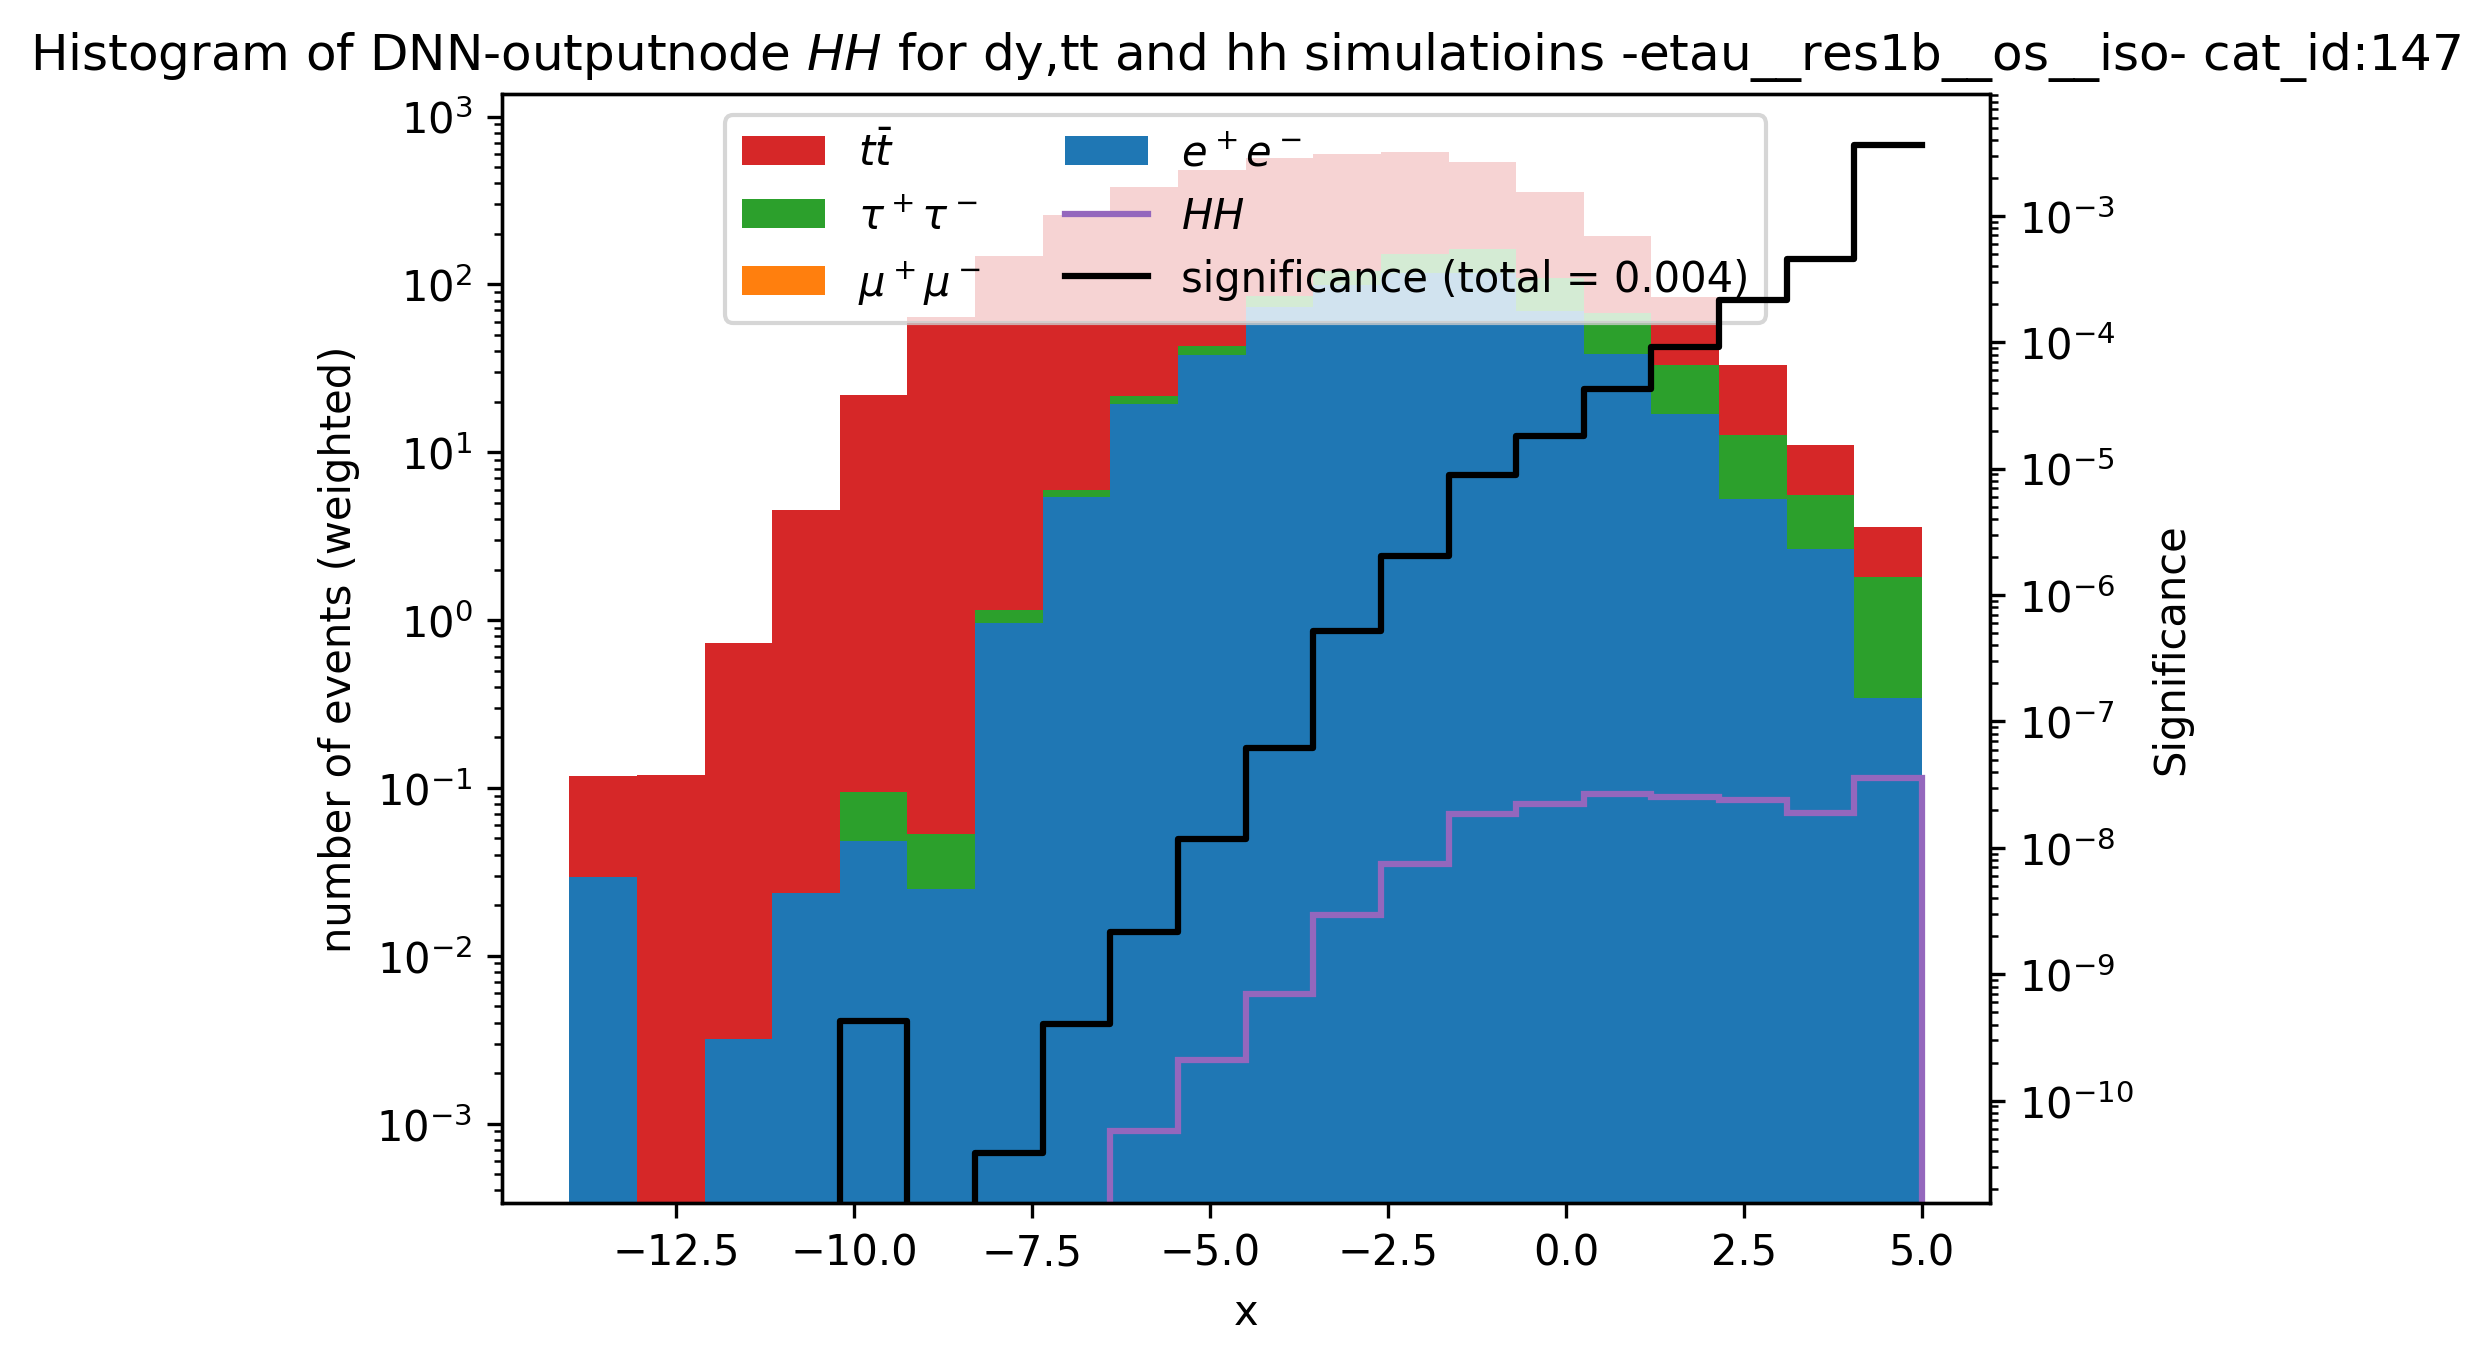
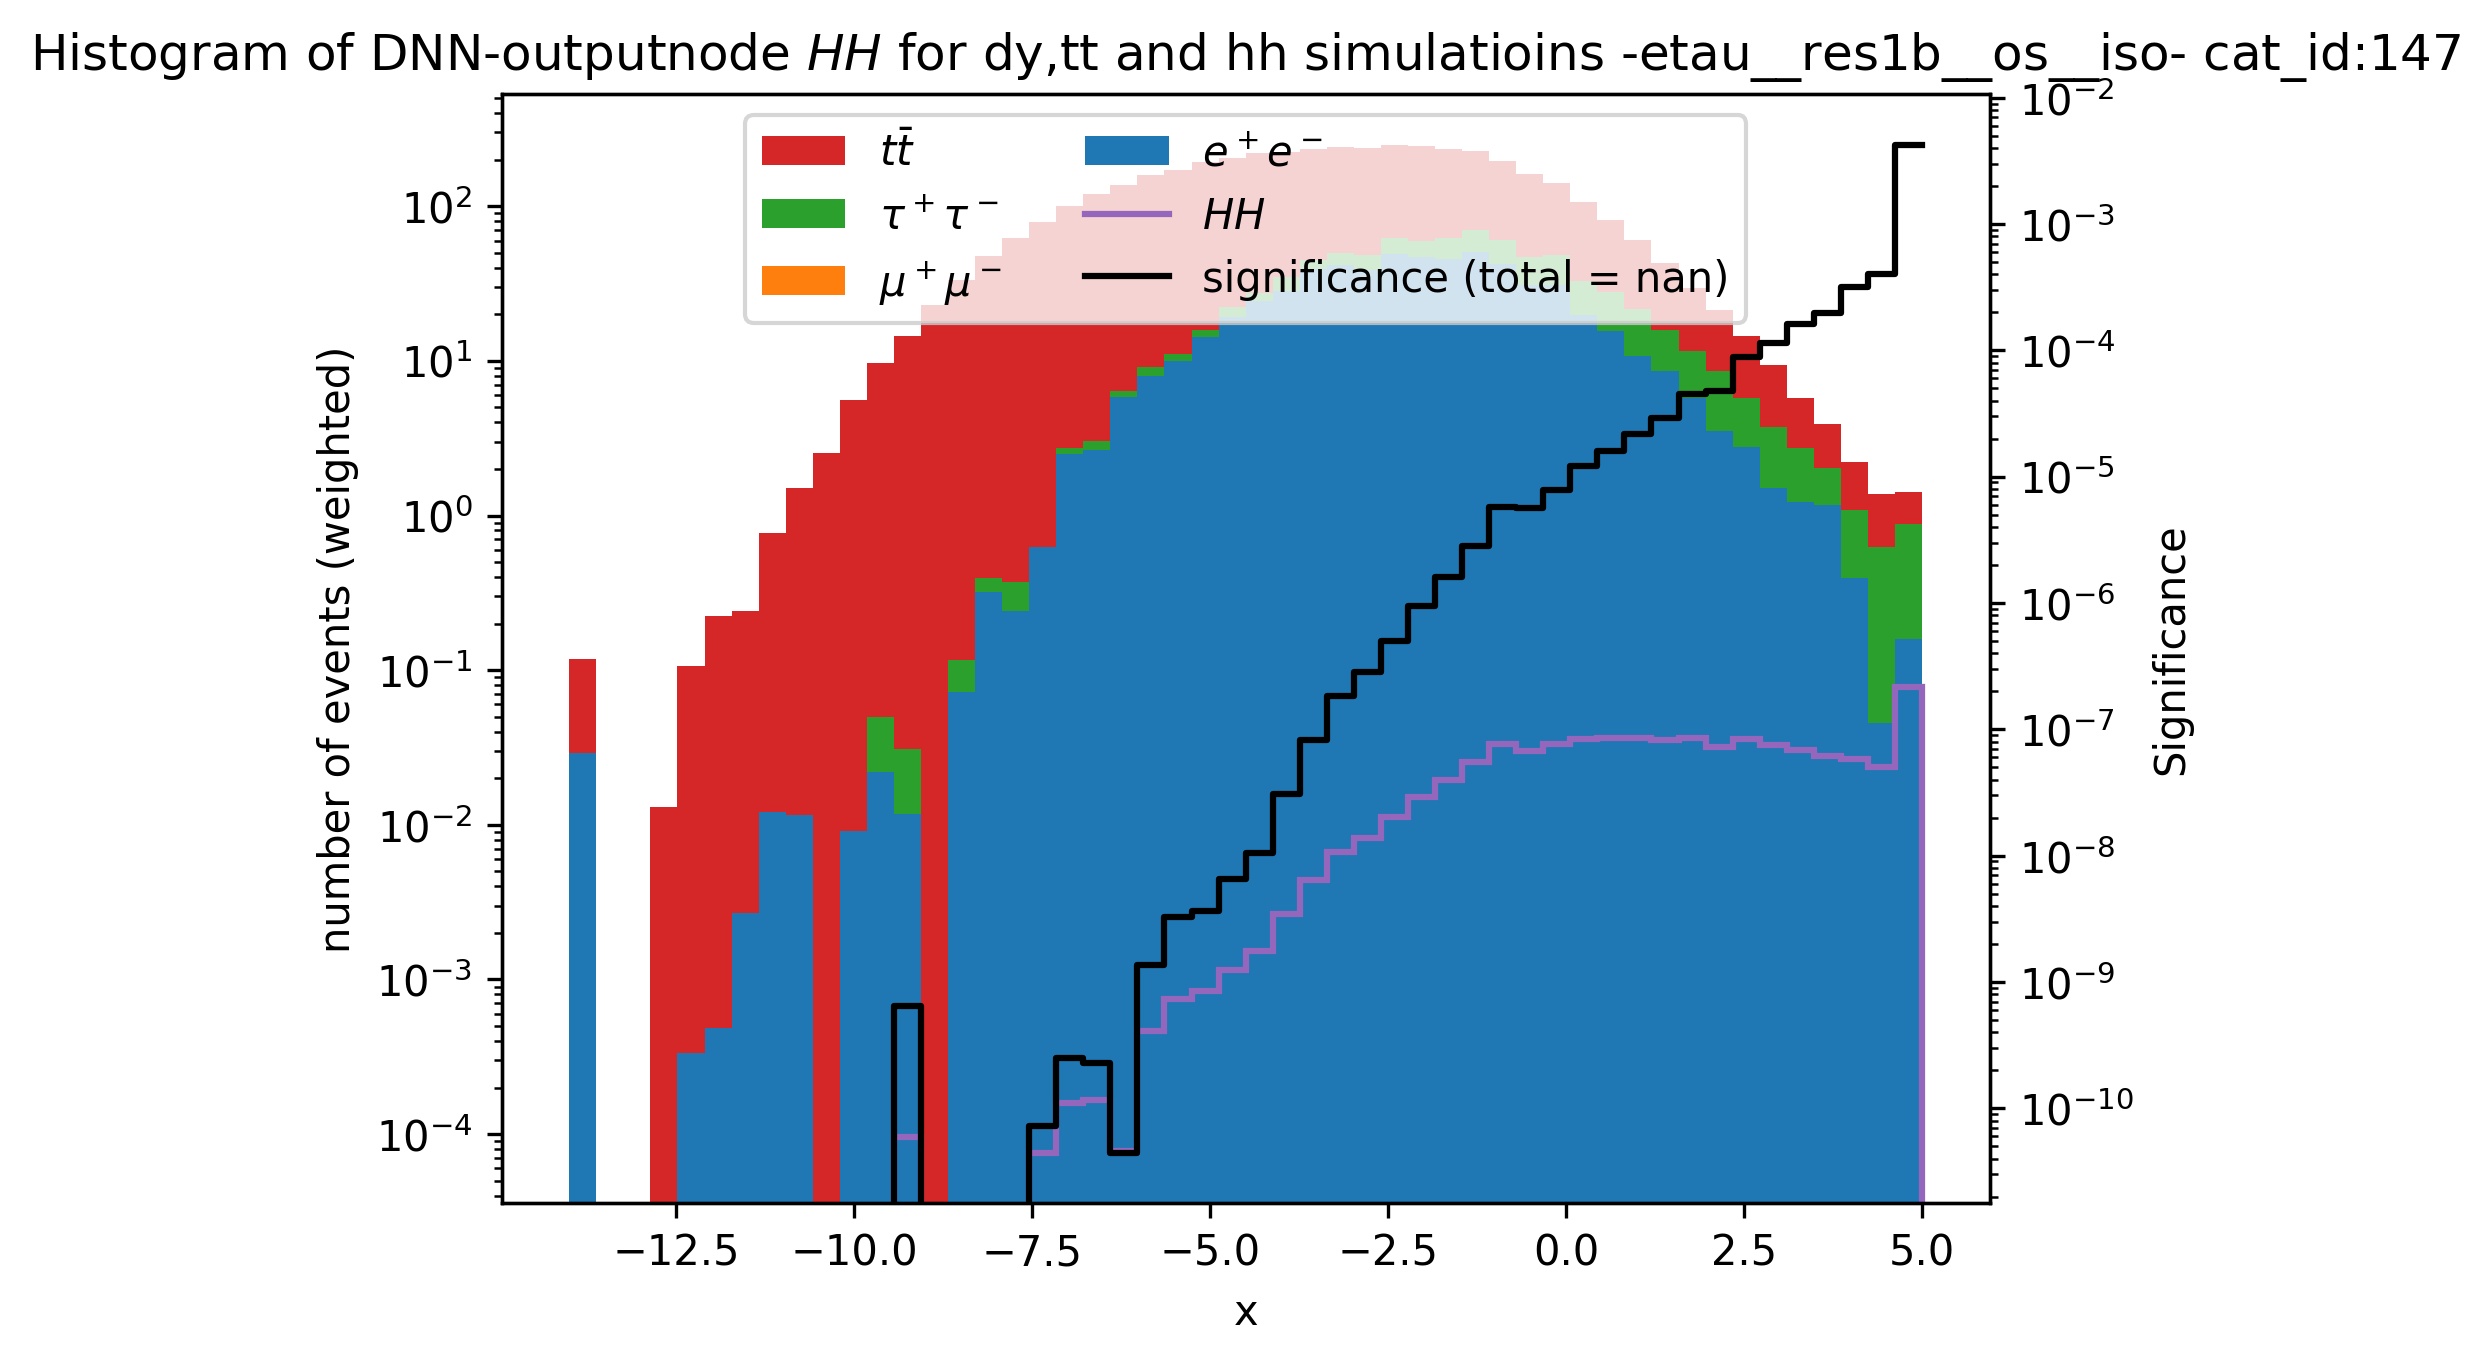
origins of reconstructed tau_h zu ende gemacht. zusätzlich noch die bins bei hists_2_subdevided_logit.py zu 50 geänder, jedoch gibt es noch NAN-Werte bei der Signifianz

diff --git a/plotting/origin_of_reco-tau.py b/plotting/origin_of_reco-tau.py
@@ -1,0 +1,155 @@
+import awkward as ak
+import hist
+from hist import Hist
+import numpy as np
+import matplotlib.pyplot as plt
+
+events_dy = ak.from_parquet("/data/dust/user/wolfmor/hh2bbtautau/vincent/dy_22pre_v14.parquet")  # dy simulation data
+#events_tt = ak.from_parquet("/data/dust/user/wolfmor/hh2bbtautau/vincent/tt_22pre_v14.parquet")  # tt simulation data
+#events_hh = ak.from_parquet("/data/dust/user/wolfmor/hh2bbtautau/vincent/hh_22pre_v14.parquet")  # hh simulation data
+
+#labels 
+labels = [
+    'Unknown',# 0
+    r'Prompt $e$',         # 1
+    r'Prompt $\mu$',        # 2
+    r'$\tau_e$',        # 3
+    r'$\tau_\mu$',      # 4
+    r'$\tau_h$'         # 5
+]
+
+#====================================================
+#1 bar chart for seeing origin of reconstructed tau_h
+# with weights and cut
+#====================================================
+
+#maske definieren
+hh_cut = 0.9
+dy_mask = events_dy.run3_dnn_moe_hh > hh_cut
+
+#weights definieren
+weights_ak = ak.zeros_like(events_dy.tau_genPartFlav) + events_dy.event_weight
+weights = ak.flatten(weights_ak[dy_mask])
+
+flat_data = ak.flatten(events_dy.tau_genPartFlav[dy_mask])
+np_data = ak.to_numpy(flat_data)
+counts = np.bincount(np_data, weights = weights) #minlength=6 ?
+x_labels = np.arange(6)
+
+plt.figure()
+plt.bar(x_labels, counts, color='#4C72B0', edgecolor='black')
+
+plt.xlabel('Origins', fontsize=12)
+plt.ylabel('Number of events', fontsize=12)
+plt.title(fr'Origins of reconstructed $\tau_h$ with weights and ${hh_cut}$ cut', fontsize=14)
+
+# Sicherstellen, dass nur ganze Zahlen auf der X-Achse stehen
+plt.xticks(x_labels,labels)
+
+# Raster im Hintergrund für bessere Lesbarkeit
+plt.grid(axis='y', linestyle='--', alpha=0.7)
+
+plt.savefig("plots/bar-charts/origin-reco-tau_with_cut_and_weights.png", dpi=300, bbox_inches='tight')
+plt.figure()
+
+#====================================================
+#2 bar chart for seeing origin of reconstructed tau_h
+# with weights, no cut
+#====================================================
+
+#maske definieren
+hh_cut = 0.0
+dy_mask = events_dy.run3_dnn_moe_hh > hh_cut
+
+#weights definieren
+weights_ak = ak.zeros_like(events_dy.tau_genPartFlav) + events_dy.event_weight
+weights = ak.flatten(weights_ak[dy_mask])
+
+flat_data = ak.flatten(events_dy.tau_genPartFlav[dy_mask])
+np_data = ak.to_numpy(flat_data)
+counts = np.bincount(np_data, weights = weights) #minlength=6 ?
+x_labels = np.arange(6)
+
+plt.figure()
+plt.bar(x_labels, counts, color='#4C72B0', edgecolor='black')
+
+plt.xlabel('Origins', fontsize=12)
+plt.ylabel('Number of events', fontsize=12)
+plt.title(r'Origins of reconstructed $\tau_h$ with weights, no cut', fontsize=14)
+
+# Sicherstellen, dass nur ganze Zahlen auf der X-Achse stehen
+plt.xticks(x_labels,labels)
+
+# Raster im Hintergrund für bessere Lesbarkeit
+plt.grid(axis='y', linestyle='--', alpha=0.7)
+
+plt.savefig("plots/bar-charts/origin-reco-tau_with_weights_no_cut.png", dpi=300, bbox_inches='tight')
+plt.figure()
+
+#====================================================
+#3 bar chart for seeing origin of reconstructed tau_h
+# without weights, with cut
+#====================================================
+
+#maske definieren
+hh_cut = 0.9
+dy_mask = events_dy.run3_dnn_moe_hh > hh_cut
+
+# #weights definieren
+# weights_ak = ak.zeros_like(events_dy.tau_genPartFlav) + events_dy.event_weight
+# weights = ak.flatten(weights_ak[dy_mask])
+
+flat_data = ak.flatten(events_dy.tau_genPartFlav[dy_mask])
+np_data = ak.to_numpy(flat_data)
+counts = np.bincount(np_data) #minlength=6 ?
+x_labels = np.arange(6)
+
+plt.figure()
+plt.bar(x_labels, counts, color='#4C72B0', edgecolor='black')
+
+plt.xlabel('Origins', fontsize=12)
+plt.ylabel('Number of events', fontsize=12)
+plt.title(fr'Origins of reconstructed $\tau_h$, no weights, ${hh_cut}$ cut', fontsize=14)
+
+# Sicherstellen, dass nur ganze Zahlen auf der X-Achse stehen
+plt.xticks(x_labels,labels)
+
+# Raster im Hintergrund für bessere Lesbarkeit
+plt.grid(axis='y', linestyle='--', alpha=0.7)
+
+plt.savefig("plots/bar-charts/origin-reco-tau_with_cut_no_weights.png", dpi=300, bbox_inches='tight')
+plt.figure()
+
+#====================================================
+#4 bar chart for seeing origin of reconstructed tau_h
+# no weights, no cut
+#====================================================
+
+#maske definieren
+hh_cut = 0.0
+dy_mask = events_dy.run3_dnn_moe_hh > hh_cut
+
+# #weights definieren
+# weights_ak = ak.zeros_like(events_dy.tau_genPartFlav) + events_dy.event_weight
+# weights = ak.flatten(weights_ak[dy_mask])
+
+flat_data = ak.flatten(events_dy.tau_genPartFlav[dy_mask])
+np_data = ak.to_numpy(flat_data)
+counts = np.bincount(np_data) #minlength=6 ?
+x_labels = np.arange(6)
+
+plt.figure()
+plt.bar(x_labels, counts, color='#4C72B0', edgecolor='black')
+
+plt.xlabel('Origins', fontsize=12)
+plt.ylabel('Number of events', fontsize=12)
+plt.title(r'Origins of reconstructed $\tau_h$, no weights, no cut', fontsize=14)
+
+# Sicherstellen, dass nur ganze Zahlen auf der X-Achse stehen
+plt.xticks(x_labels,labels)
+
+# Raster im Hintergrund für bessere Lesbarkeit
+plt.grid(axis='y', linestyle='--', alpha=0.7)
+
+plt.savefig("plots/bar-charts/origin-reco-tau_no_cut_no_weights.png", dpi=300, bbox_inches='tight')
+plt.figure()

diff --git a/plotting/hists_2_subdevided_logit.py b/plotting/hists_2_subdevided_logit.py
@@ -9,25 +9,25 @@ events_tt = ak.from_parquet("/data/dust/user/wolfmor/hh2bbtautau/vincent/tt_22pr
 events_hh = ak.from_parquet("/data/dust/user/wolfmor/hh2bbtautau/vincent/hh_22pre_v14.parquet")  # hh simulation data
 
 #logit funktion definieren
-# def stable_logit(x, eps=1e-6, limit=5.0):
-#     x = np.clip(x, eps, 1 - eps) # Begrenzt x auf [0.000001, 0.999999]
-#     y = np.log(x / (1 - x))
-#     return np.clip(y,-14, limit-1e-5)
+def stable_logit(x, eps=1e-6, limit=5.0):
+    x = np.clip(x, eps, 1 - eps) # Begrenzt x auf [0.000001, 0.999999]
+    y = np.log(x / (1 - x))
+    return np.clip(y,-14, limit-1e-5)
 
-#alternative logit funktion definieren
-def logit(x):
-    # set this fct to return x for normal scale
-    y = np.log((x + eps) / (1 - x + eps))
-    return np.clip(y, -14, 5-eps)
+# #alternative logit funktion definieren
+# def logit(x):
+#     # set this fct to return x for normal scale
+#     y = np.log((x + eps) / (1 - x + eps))
+#     return np.clip(y, -14, 5-eps)
 
 #Histogramme definieren, 2-D für dy wegen Unterteilung
 dy = Hist(
     hist.axis.StrCategory([], name="Zerfallskanal", growth=True),  #diese Achse wird später gestacked
-    hist.axis.Regular(bins=20, start=-14, stop=5, name="x")
+    hist.axis.Regular(bins=50, start=-14, stop=5, name="x")
 )
 
-tt = Hist(hist.axis.Regular(bins=20, start=-14, stop=5, name="x"))
-hh = Hist(hist.axis.Regular(bins=20, start=-14, stop=5, name="x"))
+tt = Hist(hist.axis.Regular(bins=50, start=-14, stop=5, name="x"))
+hh = Hist(hist.axis.Regular(bins=50, start=-14, stop=5, name="x"))
 
 #Namen der decay channel definieren:
 channelname=["e-tau", "mu-tau", "tau-tau"]
@@ -110,7 +110,7 @@ for i in [1,2,3]: #i steht für den channel
     #significance = np.nan_to_num(significance, nan=0.0)
     significance_total = round(np.sqrt(np.sum(significance**2)),3)
     ax2 = ax1.twinx()  # Erstellt die rechte Achse
-    ax2.step(np.linspace(-14+19/20, 5, 20),significance, label=f"significance (total = {significance_total})", color="black")
+    ax2.step(np.linspace(-14+19/50, 5, 50),significance, label=f"significance (total = {significance_total})", color="black")
     ax2.set_ylabel('Significance')
     ax2.tick_params(axis='y', labelcolor='black')
 
@@ -140,7 +140,7 @@ IDs=["etau__res1b__os__iso","etau__res2b__os__iso","mutau__res1b__os__iso","muta
 #Neudefinition von dy ist wichtig!
 dy = Hist(
     hist.axis.StrCategory([], name="Zerfallskanal", growth=True),  #diese Achse wird später gestacked
-    hist.axis.Regular(bins=20, start=-14, stop=5, name="x")
+    hist.axis.Regular(bins=50, start=-14, stop=5, name="x")
 )
 
 for i,id in enumerate([147,151,175,179,203,207],start=0): #id steht für category ids, i ist index
@@ -169,7 +169,7 @@ for i,id in enumerate([147,151,175,179,203,207],start=0): #id steht für categor
     #significance = np.nan_to_num(significance, nan=0.0)
     significance_total = round(np.sqrt(np.sum(significance**2)),3)
     ax2 = ax1.twinx()  # Erstellt die rechte Achse
-    ax2.step(np.linspace(-14+19/20, 5, 20),significance, label=f"significance (total = {significance_total})", color="black")
+    ax2.step(np.linspace(-14+19/50, 5, 50),significance, label=f"significance (total = {significance_total})", color="black")
     ax2.set_ylabel('Significance')
     ax2.tick_params(axis='y', labelcolor='black')
 
